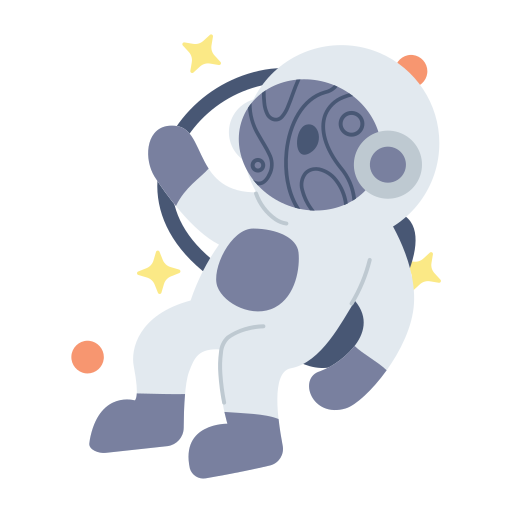
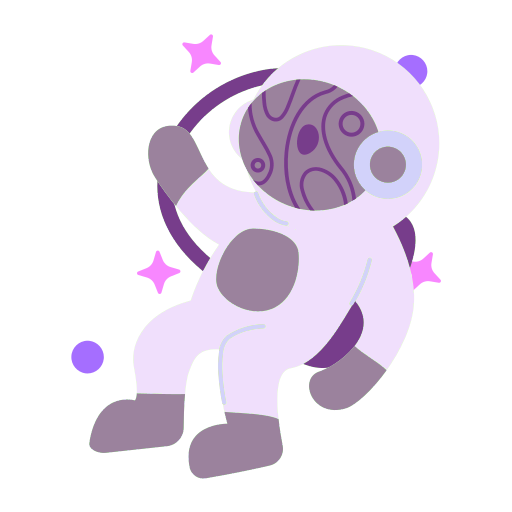
design assets ffor subgraph uncrashable landiong site

diff --git a/docs/src/components/HomepageFeatures/index.js b/docs/src/components/HomepageFeatures/index.js
@@ -18,7 +18,7 @@ const FeatureList = [
   {
     title: 'Completely Safe',
     // Svg: require('@site/static/img/undraw_docusaurus_react.svg').default,
-    Png: require('@site/static/img/sun.png').default,
+    Png: require('@site/static/img/astronaut.png').default,
     description: (
       <>
         Common problems seen in subgraph development are issues of loading undefined entities, not setting or initializing all values of entities, and race conditions on loading and saving entities. Ensure all interactions with entities are completely atomic. 

diff --git a/docs/docusaurus.config.js b/docs/docusaurus.config.js
@@ -39,7 +39,8 @@ module.exports = {
       title: "",
       logo: {
         alt: "Float Logo",
-        src: "https://media-float-capital.fra1.cdn.digitaloceanspaces.com/public/img/float-logo-sq-center.svg"
+        // src: "https://media-float-capital.fra1.cdn.digitaloceanspaces.com/public/img/float-logo-sq-center.svg"
+        src: "/img/byfloat.png",
       },
       items: [
          {
